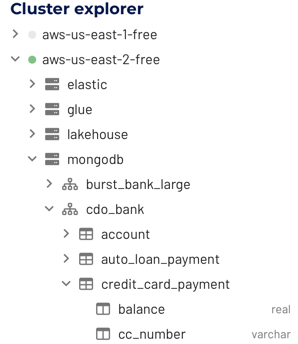
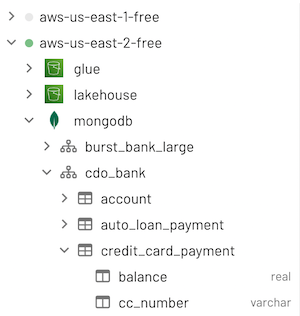
Deployed universe update

diff --git a/security/advisories.html b/security/advisories.html
@@ -437,6 +437,22 @@ us</a> for further information about any reports.</p>
 cover details for all Starburst products, including
 <a href="../starburst-enterprise/index.html">Starburst Enterprise platform (SEP)</a> and
 <a href="../starburst-galaxy/index.html">Starburst Galaxy</a> and included components.</p>
+      <h2 id="cve-2022-40152-woodstox">
+        
+        
+          CVE-2022-40152 Woodstox <a href="#cve-2022-40152-woodstox" class="titleAnchor">#</a>
+        
+        
+      </h2>
+    
+
+<p>The
+<a href="https://cve.mitre.org/cgi-bin/cvename.cgi?name=CVE-2022-40152">CVE-2020-40152</a>
+report is related to a potential exploit of the DTD support in the <a href="https://github.com/FasterXML/woodstox">Woodstox XML
+parser library</a> to facilitate Denial of
+Service attacks. All affected versions of SEP are being updated
+to use an updated version of the Woodstox library that removes this
+vulnerability.</p>
       <h2 id="cve-2022-1471-snakeyaml">
         
         
@@ -713,7 +729,7 @@ feedback();
       </div>
       <div class="col-lg-3 toc-styles d-none d-lg-block">
         <div class="spacer-60 toc-sticky">
-          <ul><li><a href="#security-advisories">Security advisories</a><ul><li><a href="#cve-2022-1471-snakeyaml">CVE-2022-1471 SnakeYAML</a></li><li><a href="#cve-2022-3786-and-cve-2022-3602-openssl">CVE-2022-3786 and CVE-2022-3602 OpenSSL</a></li><li><a href="#cve-2022-22947">CVE-2022-22947</a></li><li><a href="#spring4shell">Spring4Shell</a></li><li><a href="#cve-2021-42392">CVE-2021-42392</a></li><li><a href="#cve-2021-44228">CVE-2021-44228</a></li><li><a href="#cve-2021-45046">CVE-2021-45046</a></li><li><a href="#cve-2021-45105">CVE-2021-45105</a></li><li><a href="#cve-2020-36518">CVE-2020-36518</a></li></ul></li></ul>
+          <ul><li><a href="#security-advisories">Security advisories</a><ul><li><a href="#cve-2022-40152-woodstox">CVE-2022-40152 Woodstox</a></li><li><a href="#cve-2022-1471-snakeyaml">CVE-2022-1471 SnakeYAML</a></li><li><a href="#cve-2022-3786-and-cve-2022-3602-openssl">CVE-2022-3786 and CVE-2022-3602 OpenSSL</a></li><li><a href="#cve-2022-22947">CVE-2022-22947</a></li><li><a href="#spring4shell">Spring4Shell</a></li><li><a href="#cve-2021-42392">CVE-2021-42392</a></li><li><a href="#cve-2021-44228">CVE-2021-44228</a></li><li><a href="#cve-2021-45046">CVE-2021-45046</a></li><li><a href="#cve-2021-45105">CVE-2021-45105</a></li><li><a href="#cve-2020-36518">CVE-2020-36518</a></li></ul></li></ul>
 
           <div class="feedback-container">
   <div class="feedback-thumbs">

diff --git a/starburst-galaxy/release-notes.html b/starburst-galaxy/release-notes.html
@@ -1455,7 +1455,11 @@ available. Downloading the connection file is not supported by Zing Data.</li>
     
 
 <ul>
-  <li>Enabled case-insensitive name matching for MongoDB objects.
+  <li>Enabled case-insensitive name matching for MongoDB objects.</li>
+  <li>Added catalog logos to the query editor to <a href="./query/query-editor.html#cluster-explorer-pane">visually
+indicate</a> each cluster’s
+connected data sources.</li>
+</ul>
       <h2 id="5-apr-2023">
         
         
@@ -1464,7 +1468,8 @@ available. Downloading the connection file is not supported by Zing Data.</li>
         
       </h2>
     
-  </li>
+
+<ul>
   <li>Added public preview support for <a href="./query/query-editor.html#global-search">global
 search</a>. Use global search to search
 through your data entities across Starburst Galaxy.</li>

diff --git a/starburst-galaxy/query/query-editor.html b/starburst-galaxy/query/query-editor.html
@@ -1470,7 +1470,7 @@ following symbols:</p>
     </tr>
     <tr>
       <td>catalogs</td>
-      <td>server symbol <i class="fa-solid fa-server"></i></td>
+      <td>logo for this catalog’s data source</td>
     </tr>
     <tr>
       <td>schemas</td>

diff --git a/starburst-galaxy/catalog-explorer/index.html b/starburst-galaxy/catalog-explorer/index.html
@@ -1476,7 +1476,7 @@ following symbols:</p>
   <tbody>
     <tr>
       <td>catalogs</td>
-      <td><i class="fa-solid fa-server"></i></td>
+      <td>logo for this catalog’s data source</td>
     </tr>
     <tr>
       <td>schemas</td>
